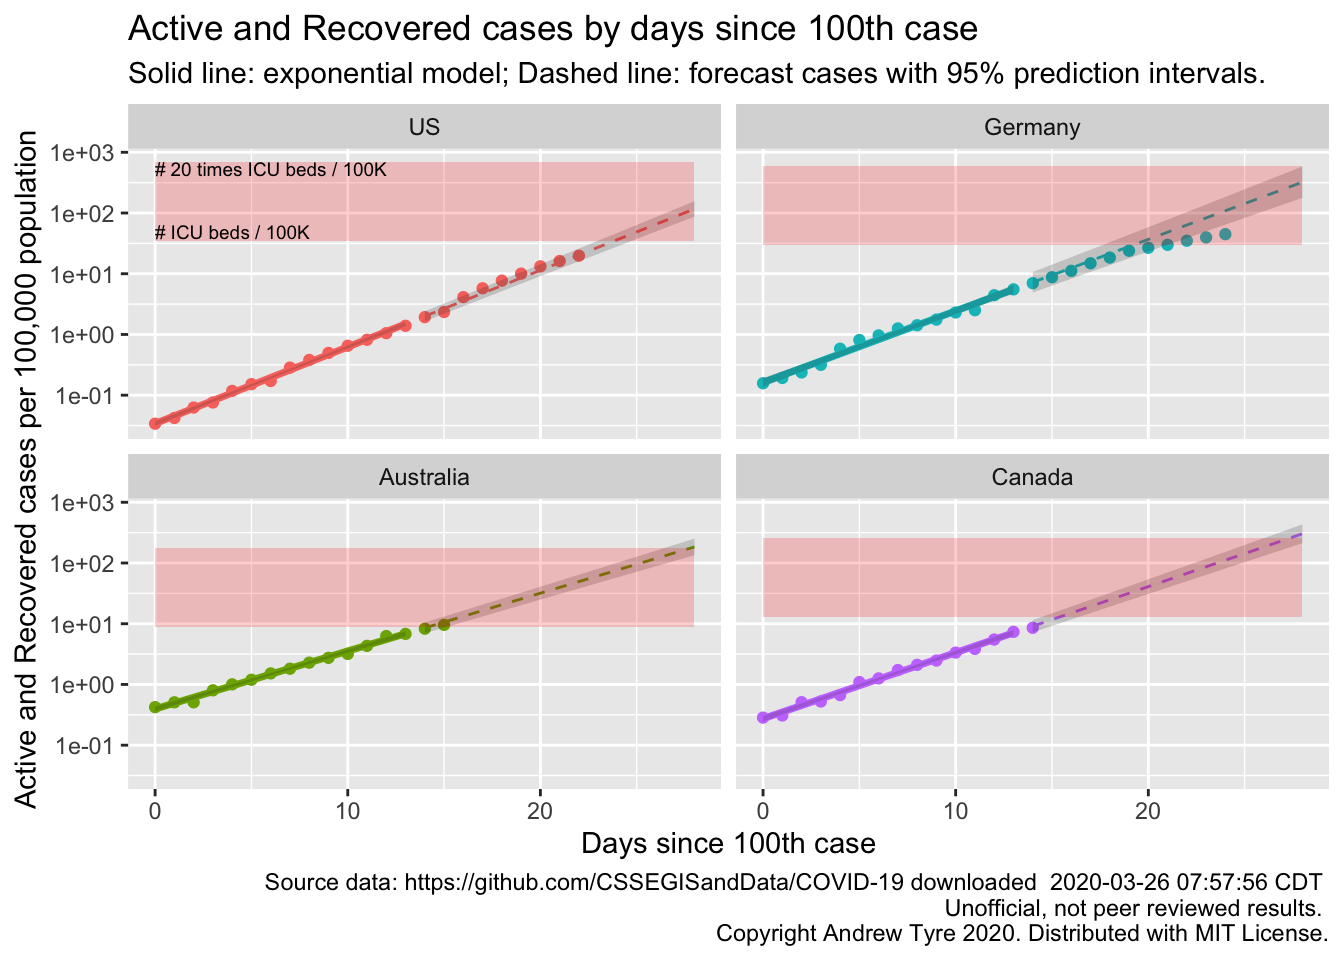
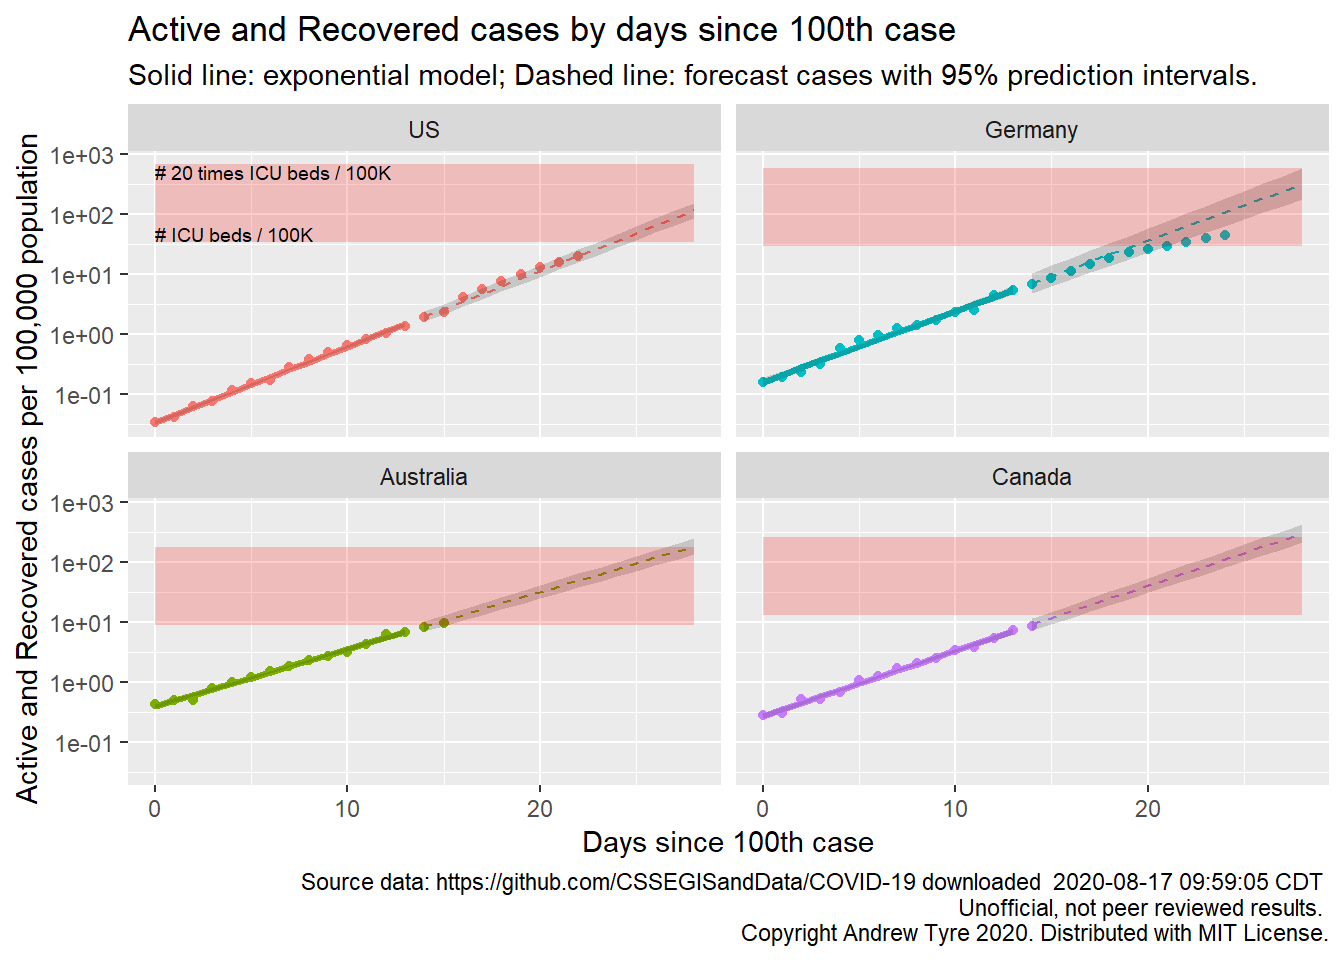
fix errors in covid X post

diff --git a/content/post/covid-19_in_R_X.html b/content/post/covid-19_in_R_X.html
@@ -24,6 +24,10 @@ good; they haven’t got state level data for the USA anymore. Germany seems to 
 USA, Australia, and Canada are still on exponential growth curves.</p>
 <p><a href="/post/covid-19_and_r/">The first post in this series was a week and a half ago</a>, in case you’re just joining and
 want to see the progression.</p>
+<p>EDIT 2020-10-14: Prof. Niko Speybroeck pointed out I’d
+made an error in the derivative (left out a minus sign)
+and copy/pasted the wrong df for the confidence limits in
+the first plot. No changes to the conclusions though. All fixed now! Thanks!</p>
 <div id="the-bottom-line" class="section level1">
 <h1>The bottom line</h1>
 <p>DISCLAIMER: These unofficial results are not peer reviewed, and should not be
@@ -155,8 +159,8 @@ all_fit &lt;- all_models %&gt;%
   select(-model) %&gt;% 
   unnest(cols = c(&quot;data&quot;,&quot;fit&quot;)) %&gt;% 
   mutate(fit = 10^.fitted,
-         lcl = 10^(.fitted - .se.fit * qt(0.975, df = 10)),
-         ucl = 10^(.fitted + .se.fit * qt(0.975, df = 10)),
+         lcl = 10^(.fitted - .se.fit * qt(0.975, df = 12)),
+         ucl = 10^(.fitted + .se.fit * qt(0.975, df = 12)),
     fitpc = fit / popn / 10,
          lclpc = lcl / popn / 10,
          uclpc = ucl / popn / 10)
@@ -226,7 +230,7 @@ the Delta method I learned from <a href="https://larkinpowell.wixsite.com/larkin
 He wrote an <a href="https://academic.oup.com/condor/article/109/4/949/5563525">awesome how-to for the Delta method</a>.</p>
 <p><span class="math display">\[
 var(\hat t) = var(\hat b)\left[\frac{\partial\hat t }{\partial \hat b}\right]^2 \\
-\frac{\partial\hat t }{\partial \hat b} = \frac{log_{10}2}{b^{2}} \\
+\frac{\partial\hat t }{\partial \hat b} = -\frac{log_{10}2}{b^{2}} \\
 var(\hat t) = var(\hat b)\frac{log_{10}2^2}{b^{4}}
 \]</span></p>
 <pre class="r"><code>doubling_times &lt;- all_models %&gt;% 
@@ -329,8 +333,8 @@ Tomorrow I’ll try to find a dataset that includes states.</p>
 <hr />
 <ol>
 <li id="fn1"><p>Code not shown in the post can be found <a href="https://raw.githubusercontent.com/rbind/cheap_shots/master/content/post/covid-19_in_R_IX.Rmd">on Github</a>.
-This post benefited from comments by Ramona Sky, Kelly Helm Smith, and Jessica Burnett.<a href="#fnref1" class="footnote-back">↩</a></p></li>
+This post benefited from comments by Ramona Sky, Kelly Helm Smith, and Jessica Burnett.<a href="#fnref1" class="footnote-back">↩</a></p></li>
 <li id="fn2"><p>I’m feeling pretty chuffed about this! I didn’t copy/paste – that code chunk pulls in the hidden one
-and then only echoes the lines I want echoed.<a href="#fnref2" class="footnote-back">↩</a></p></li>
+and then only echoes the lines I want echoed.<a href="#fnref2" class="footnote-back">↩</a></p></li>
 </ol>
 </div>
